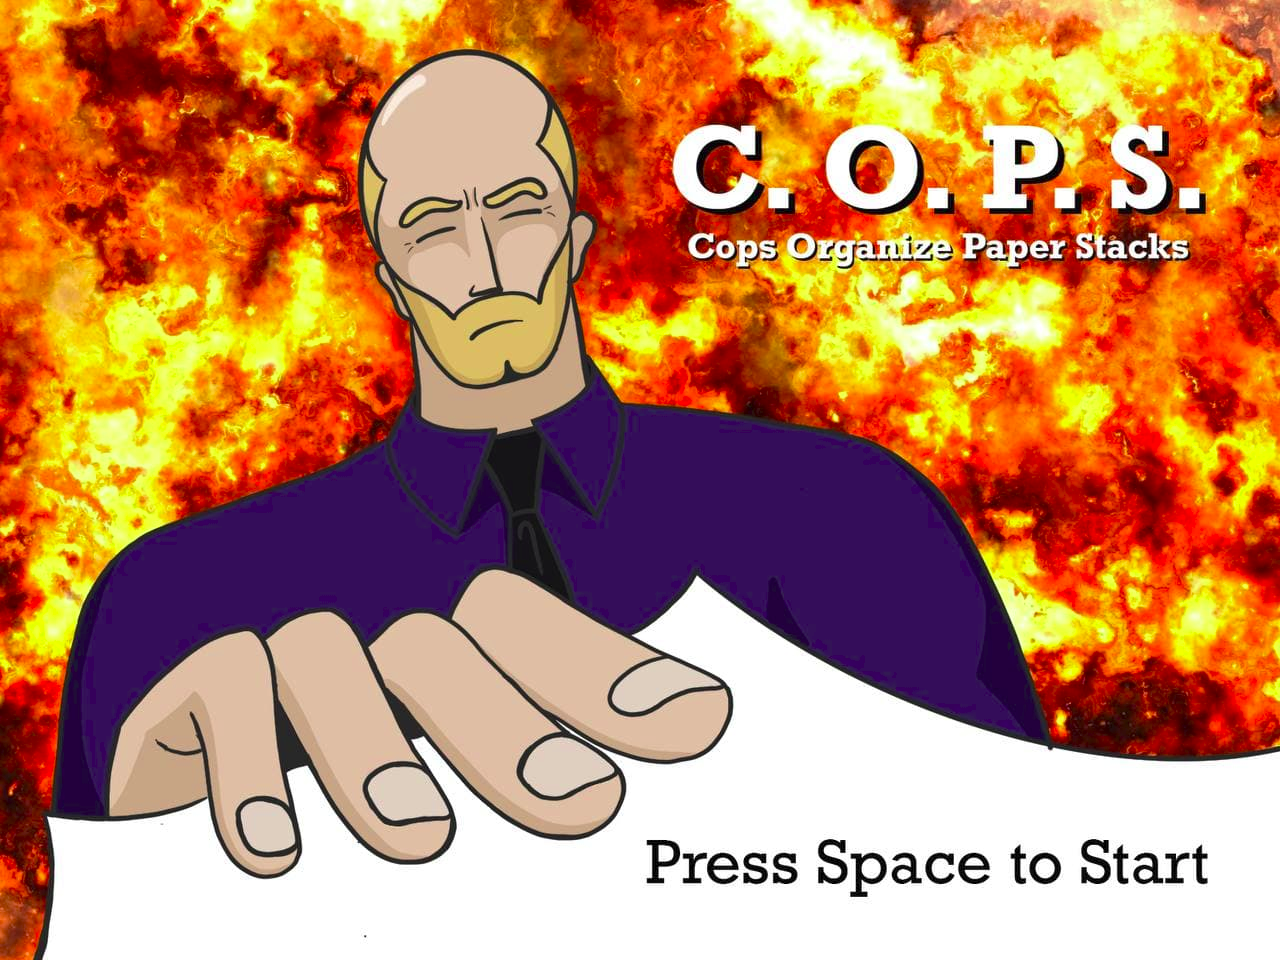
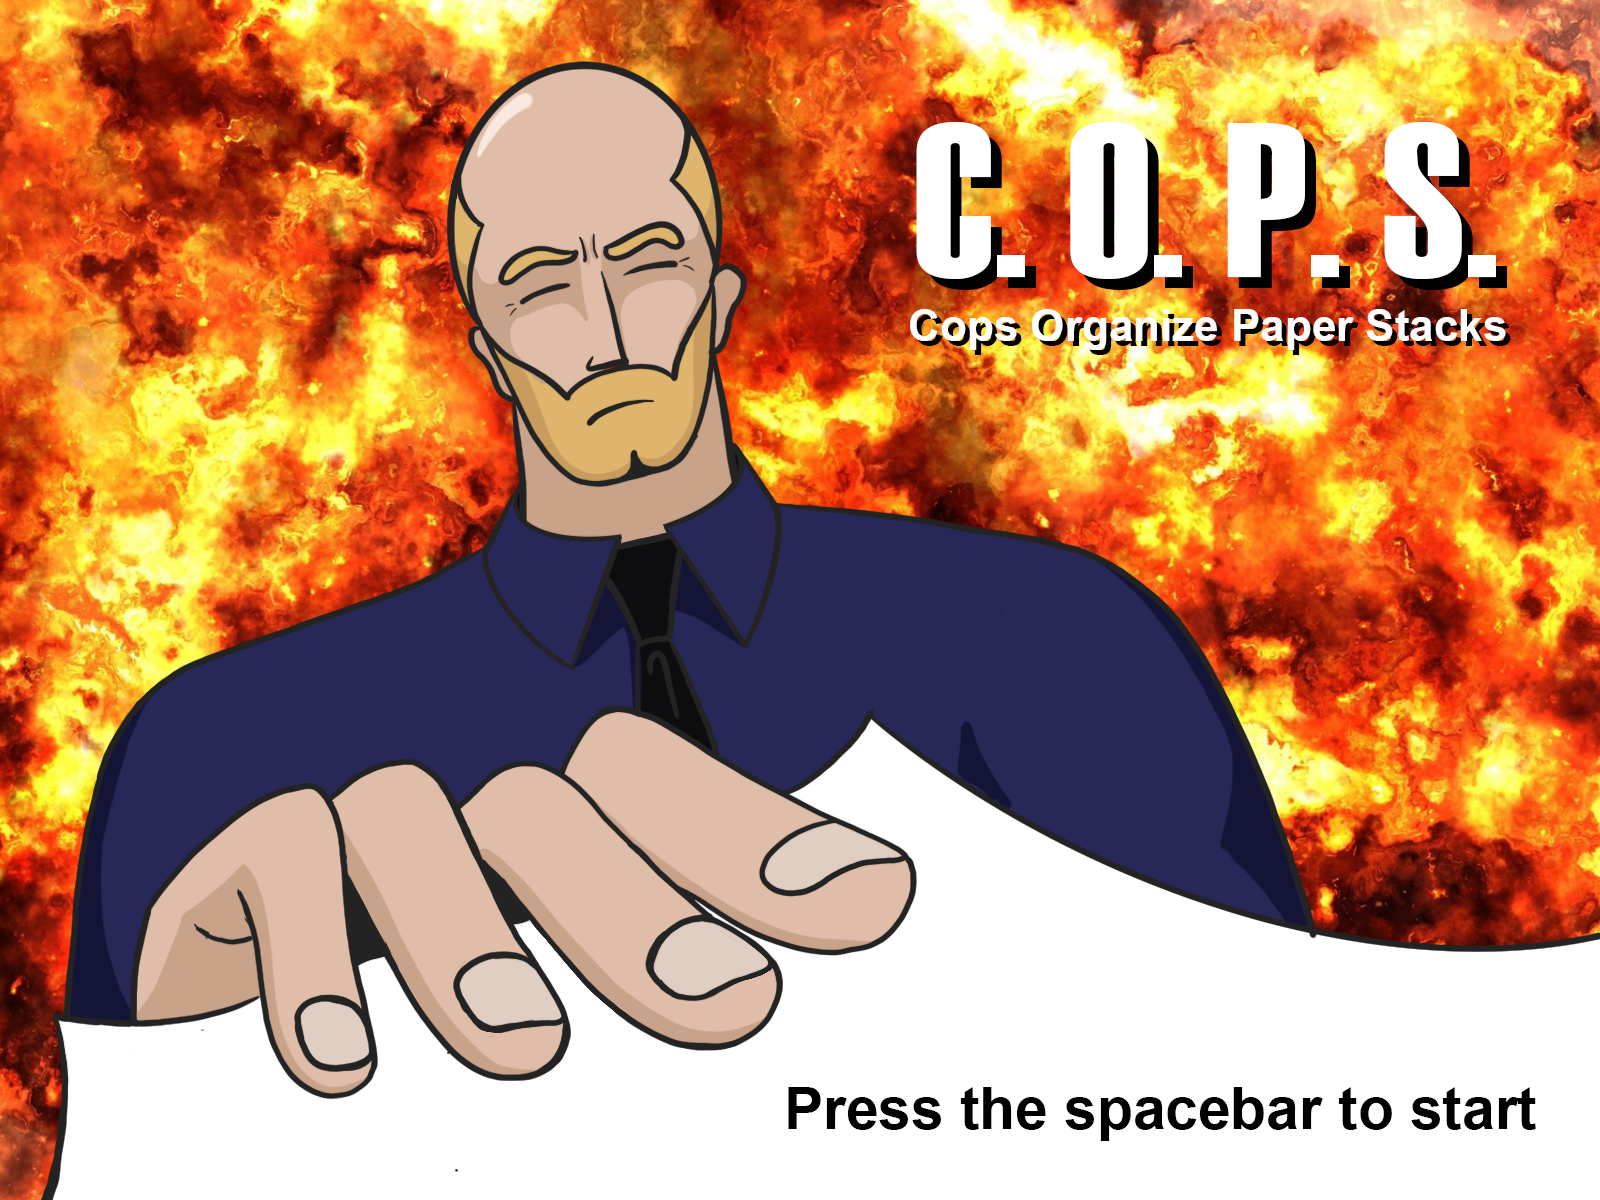
update images

diff --git a/run_game.py b/run_game.py
@@ -172,6 +172,9 @@ class COPS(object):
                                              (config.width, config.height))
 
         self.surface.blit(menu_splash, (0, 0))
+        # self.blit_text('Press the spacebar to start',
+        #                center=((config.width * 3) // 4,
+        #                        (config.height * 15) // 16))
 
     def blit_level_splash(self):
         # TODO
